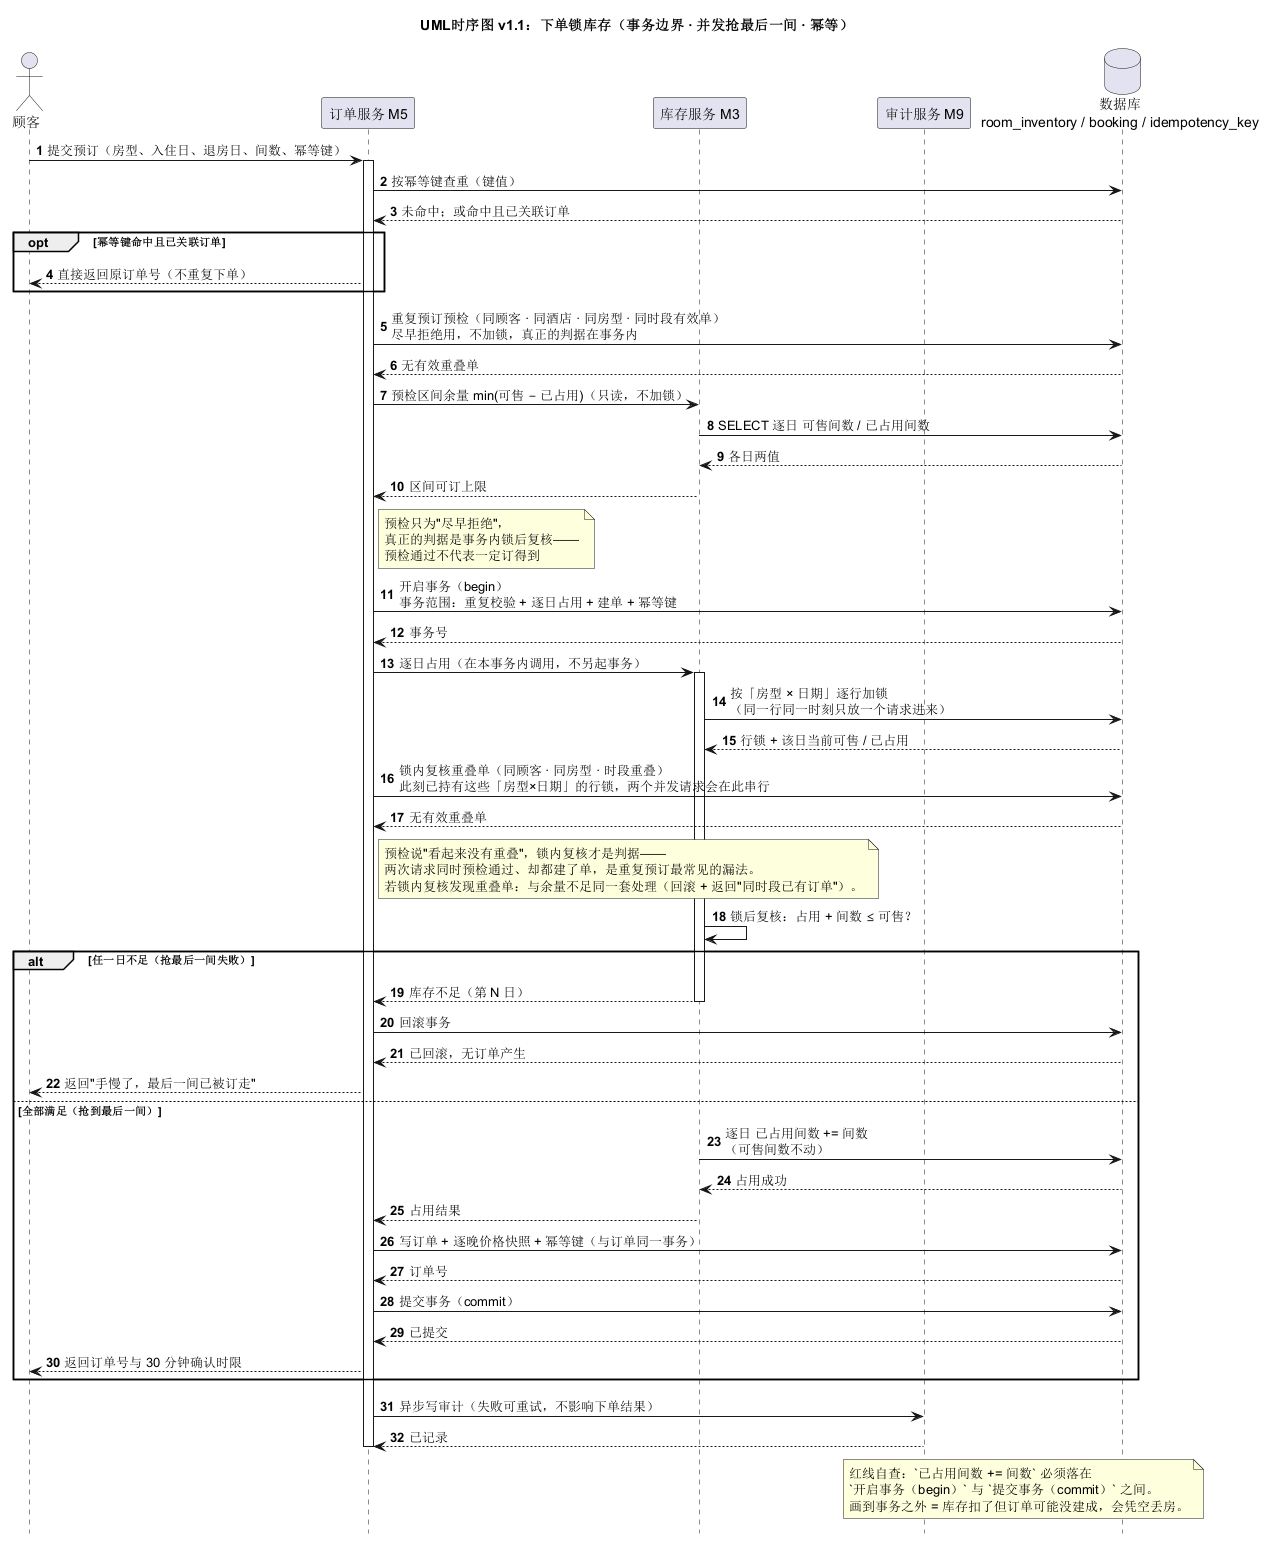
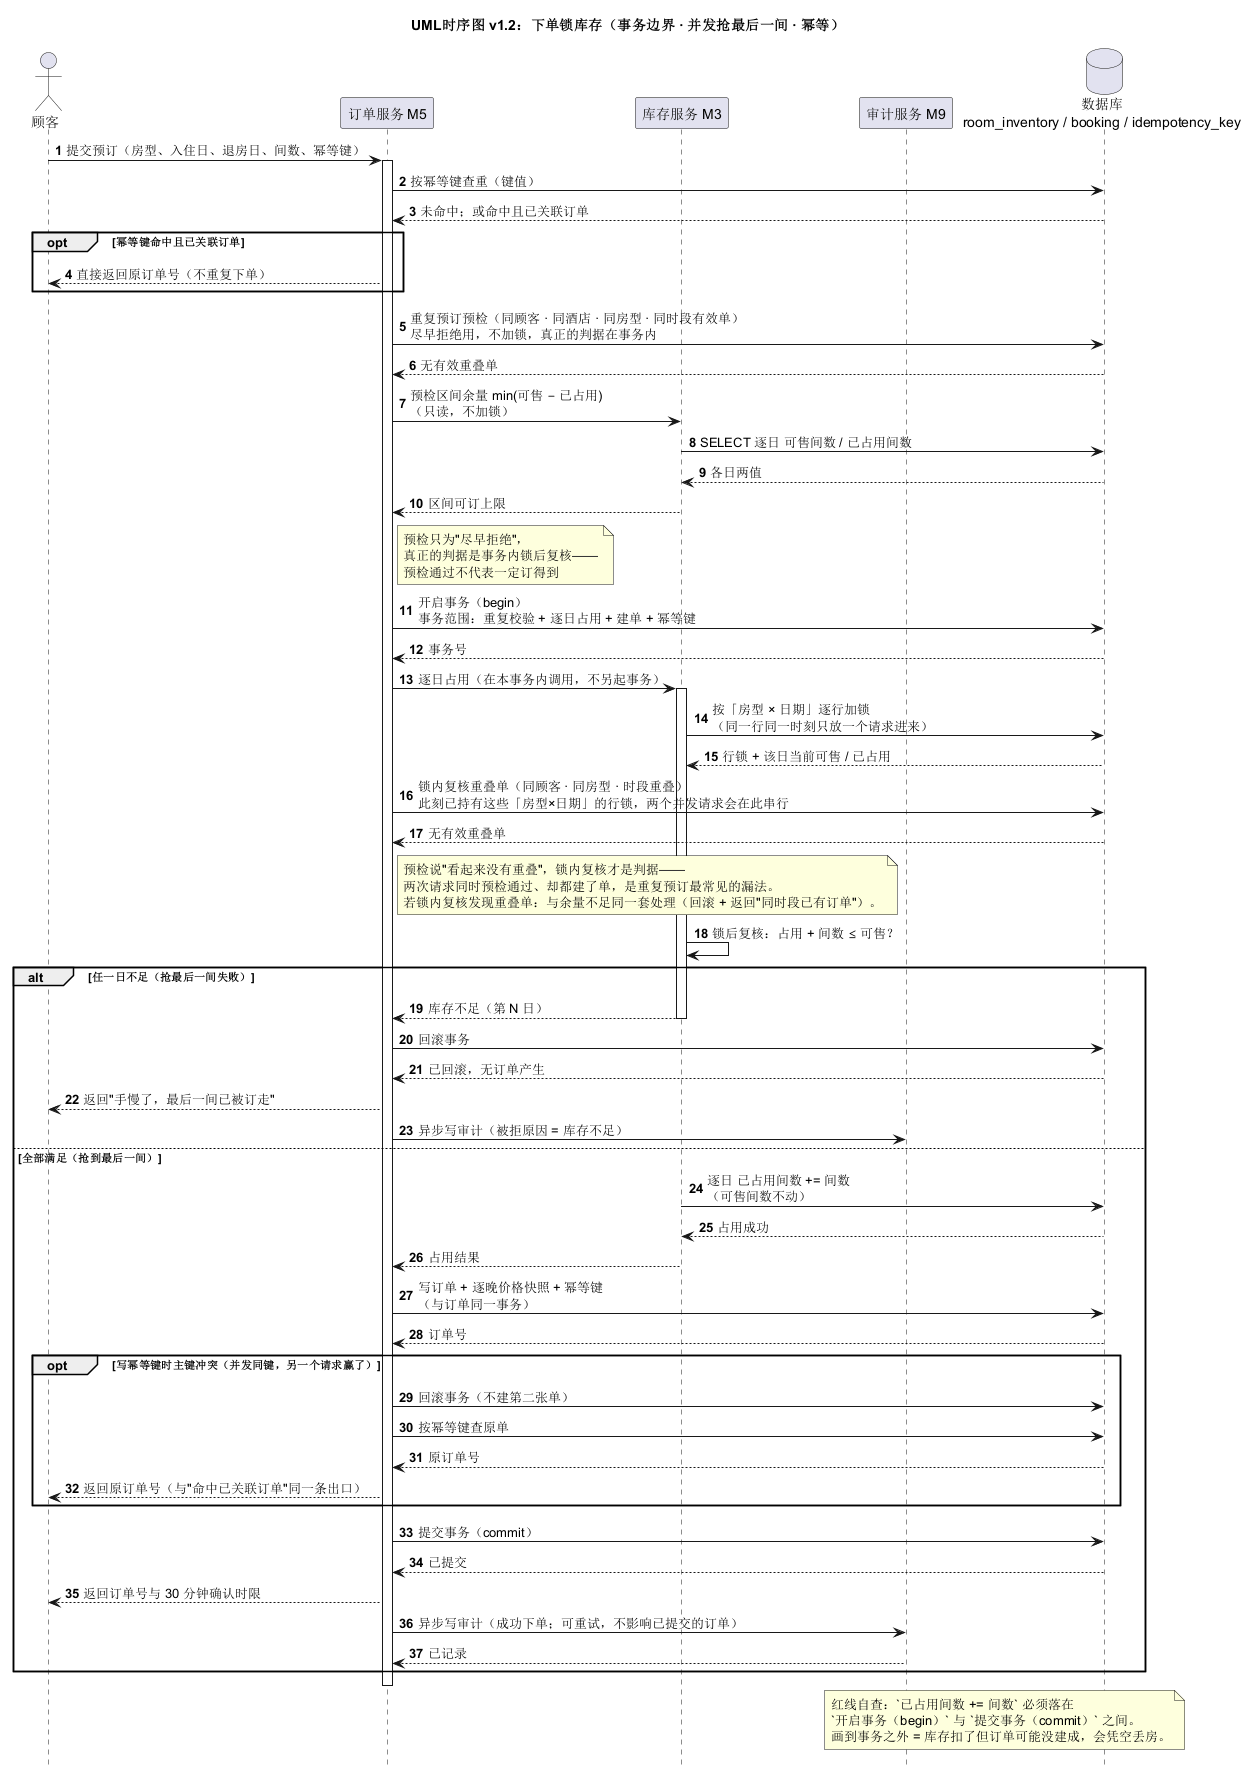
[S4-fix] 按评审 R-10~R-13 收口：超时扫描归 M6、状态变更经状态机、失败路径补审计
S4 复验判"通过（带债）"，四条债在本提交内闭环：

R-10 超时扫描归属与频率三处打架
- UML时序图-超时取消.puml：执行者由 M5 改为 M6（M10 每 5 分钟触发 → M6 扫描 →
  M6 请求 M5 置取消 → M5 调 M3 释放），并补 M6 生命线；
- UML组件图.puml：M10 --> M6 由「每日 00:05 扫描超时单」改为「每 5 分钟触发超时扫描」，
  00:05 只属于 01 §2 T5 的次日兜底，不该复用到超时扫描；
- 02 §2 M6 卡片补频率（每 5 分钟一批，阈值默认 30 分钟可配置）。

R-11 超时时序图绕过状态机改状态（违背类图 note 与 01 的硬约束）
- 新增 BookingStateMachine 生命线：M5 → 状态机 转换(订单, 超时未确认)，
  由状态机生成条件更新语句（UPDATE … WHERE 状态='待确认'，影响行数=1 才继续），
  图上明写"业务代码不手写 SET"；条件更新这一层保险保留不丢。

R-12 下单失败路径无审计 → alt 失败分支补 M5 → M9 异步写审计（被拒原因 = 库存不足）。
R-13 并发同键未画 → 补 opt「写幂等键时主键冲突」：回滚 → 按幂等键查原单 → 返回原单号。
D-15 版式 → 长消息换行，去掉单行 note 误加的 end note，避免文字压线。

顺带：归档 exp2/验收/评审报告_S4.md。

验证：check.py --stage 1/2/3/4 = 50/50、29/29、20/20、19/19 PASS。

diff --git a/exp2/验收/评审报告_S4.md b/exp2/验收/评审报告_S4.md
@@ -1,0 +1,126 @@
+# 评审报告 · S4 交互图（甲方复验）
+
+> 复验对象：HEAD `13b693e`，标签 `stage-4`（`ce3cca1`）/ `stage-4b`（`13b693e`）
+> 依据：手册硬指标 > `exp1/requirements.md` > 口径卡 > `01 §2`（T1–T8）、`02 §2/§4/§5`（链路与事务边界）、`03 §5`（库存口径）
+> 方式：独立复跑 A 层 + 逐行读两份 `.puml` + 目视两张 PNG + **与 S2/S3 已有图交叉比对**（单图自洽不等于体系自洽）+ 一次反向测试
+> 结论先行：**S4 通过（带债通过）。两处中危须在 S5 提交内闭环，其中 R-11 直接违背"状态只能经状态机改"的硬约束。**
+
+---
+
+## 1. 提交链
+
+| 提交 | 说明 |
+|---|---|
+| `c751abd` | `[S3-fix]` S3→S4 门禁：幂等键同事务写入（R-09）等三项 |
+| `ce3cca1` | `[S4]` 交互图两张（17/17），打标 `stage-4` |
+| `eddccc4` | `[S4-fix]` 重复预订校验移进事务、超时取消补订单行锁 |
+| `391d4aa` | `[人工]` S3 状态图：T7 合并的代价改写成统计口径损失 |
+| `13b693e` | `[人工]` S4 超时时序图：补批次回执，把跳过数单独拎出来（`stage-4b`） |
+
+---
+
+## 2. A 层复跑与判据可信度
+
+`check.py --stage 4` → **19/19 PASS，退出码 0**（19 项，比阶段卡原定的 17 项多了两条红线判据）。
+
+**反向测试（证明红线判据不是空跑）**：在 `UML时序图-下单锁库存.puml` 的事务前注入一条 `已占用间数 += 间数`，重跑得：
+
+```
+[FAIL] 下单时序图 红线：`已占用间数 +=` 落在 begin 与 commit 之间 ← 位置 begin=11 扣减=7 commit=28
+合计 19 项：PASS 18 / FAIL 1
+```
+
+失败信息精确给出三个行号，判据真实有效。测后按字节还原，改前/改后 SHA256 一致，`git status` 干净。
+
+---
+
+## 3. 逐图核对
+
+### 3.1 下单锁库存（`v1.1`，5 条生命线：顾客 / M5 / M3 / M9 / DB）
+
+| 检查点 | 实测 |
+|---|---|
+| 生命周期完整 | 提交 → 幂等键查重 → 重复预订预检 → 区间余量预检 → begin → 逐日加锁 → 锁内复核 → 复核 → `+=` → 建单+幂等键 → commit → 异步审计，32 条带序号消息 |
+| **R-09 闭环** | 第 26 条明写"写订单 + 逐晚价格快照 + **幂等键（与订单同一事务）**"；第 11 条事务范围列出"重复校验 + 逐日占用 + 建单 + 幂等键"；`02 §4` 第 125 行与 `§5` 表已同步改为"键只在事务内写入…主键冲突即回滚并返回原单"——**三处口径一致，孤儿键问题解决** |
+| 红线（扣库存必须在事务内） | `+=` 在第 23 条，夹在 begin(11) 与 commit(28) 之间；并有 `note over DB,M9` 自述理由 |
+| 重复预订校验 | 预检（不加锁，尽早拒绝，第 25 条）+ 锁内复核（第 41 条，"此刻已持有行锁，两个并发请求在此串行"），与 `02 §5`"重复校验在事务内"一致；`eddccc4` 的修订是对的方向 |
+| 并发抢最后一间 | `alt 任一日不足 → 回滚 → "手慢了"`；`else 全部满足 → 占用 → 建单 → 提交`，与 S3 活动图同一套顺序 |
+| 幂等分支 | `opt 幂等键命中且已关联订单 → 直接返回原订单号` |
+
+### 3.2 超时取消回补（`v1.2`，5 条生命线：M10 / M5 / M3 / M7 / M9 / DB）
+
+| 检查点 | 实测 |
+|---|---|
+| 逐单独立事务 | `loop 逐单处理（每单一个独立事务）`，内层 begin/commit 包裹状态更新、释放、通知 |
+| 只回补一次 | 订单行锁（`SELECT … FOR UPDATE`）+ 条件更新（`WHERE 状态='待确认'`，影响行数=1 才继续）+ `alt 已被确认或已取消 → 回滚`，三层保险；`eddccc4` 补的正是 `02 §5` 写的"订单行锁" |
+| 红线 | `-=` 与状态变更同一事务；`note over M3,M9` 写明拆开的后果（半截账） |
+| 可观测性（人工提交） | 第 21 条"返回本批结果（扫描 N / 取消 K / 跳过 S / 失败 F）"+ note 说明"跳过数持续不为 0 = 该取消的没取消"，这是设计者视角，不是 AI 套话 |
+
+### 3.3 交叉比对（单图自洽 ≠ 体系自洽）
+
+| 比对对象 | 结果 |
+|---|---|
+| `03 §5` 库存口径 | 两图都写"已占用 ± 间数（可售间数不动）"，与 S1 返工后的口径完全一致 |
+| S3 活动图 | 顺序一致（预检 → 事务 → 加锁 → 锁后复核 → 回补/回滚），R-08 的修正没有被时序图改回去 |
+| `02 §2` M6 对外接口 | **不一致**，见 R-10 |
+| 类图 `note right of BookingStatus`"状态只能经 BookingStateMachine 修改" | **不一致**，见 R-11 |
+
+---
+
+## 4. 新发现问题
+
+**R-10（中危）｜"谁扫描超时单、多久扫一次"三处说法打架**
+
+- `UML时序图-超时取消.puml:17`：`M10 -> M5 : 每 5 分钟触发一次扫描（阈值默认 30 分钟，可配置）`——**执行者是 M5**、频率 **5 分钟**。
+- `UML组件图.puml:86`：`M10 --> M6 : [T] 每日 00:05 扫描超时单`——**执行者是 M6**、频率 **每日一次**。
+- `02 §2` M6 卡片（第 71 行）对外接口含"**扫描超时订单（定时）**"——归属 **M6**。
+- 硬伤在于物理不可能：确认阈值是 30 分钟，一天扫一次根本取消不掉；而 `00:05` 是 `01 §2 T5`"入住日次日 00:05 系统兜底置已入住"的时间点，被误用到超时扫描上。
+- **甲方裁定**：归属按 `02 §2` 与组件图 —— **M10 触发、M6 扫描、M6 调 M5 置取消、M5 调 M3 释放**；频率统一为**每 5 分钟**（满足 30 分钟阈值）。改动集中在时序图前两条生命线（M10→M6，把"查询待确认超时单"挪到 M6），并把组件图 `:86` 的"每日 00:05"改为"每 5 分钟"。**不得**采用"改 02 让 M5 接管扫描"的反向方案——那要动模块职责表与组件图两条，且与"履约与调度归 M6"的设计意图相反。
+
+**R-11（中危）｜超时时序图绕过状态机直接改状态**
+
+- `UML时序图-超时取消.puml:29`：`条件更新：SET 状态 = 已取消 WHERE 订单号=? AND 状态='待确认'`。
+- 冲突对象是硬约束：类图 `note right of BookingStatus` 与 `01` 都写"**状态字段只能经 `BookingStateMachine` 修改，业务代码不得直接赋值**"。同一份交付里，一张图禁止直接赋值、另一张图直接写 `SET`，答辩必被问。
+- **修法（二选一，推荐前者）**：①把该消息改成 `M5 -> 状态机 : 转换(订单, 超时事件)`，由状态机生成条件更新 SQL，图下加一句"`WHERE 状态='待确认'` 由状态机生成，业务代码不手写 SET"；②保留 SQL，但在 note 里同样声明"语句由状态机产出"。**注意保留条件更新**（它是"只回补一次"的第二道保险，不能因为改画法而丢掉）。
+
+**R-12（低危）｜下单失败路径没有审计，与活动图不一致**
+
+S3 活动图在"重复预订被拒""余量不足"两条失败路径上都画了"写审计（被拒原因）"，S4 时序图在 `alt 库存不足 → 回滚 → 返回` 之后直接结束，没有 `M5 -> M9`。建议补一条异步审计（被拒原因=库存不足 / 重复预订），否则"拒单率"在报表里统计不出来。
+
+**R-13（低危）｜并发同键的"主键冲突"分支没画**
+
+`02 §4` 已写"键值主键冲突即回滚并返回原单"，但时序图只有 `opt 命中且已关联订单`（那是先查到的路径）。建议在该 `opt` 旁补 `opt 写幂等键时主键冲突`：回滚 → 查原单 → 返回原单号。属"图上少一条分支"，不改主流程。
+
+**D-15（低危）｜版式**：下单图第 16–17 条消息的文字与箭头顶线轻微叠压；超时图第 8 条条件更新文字压住自消息箭头。重渲染时把消息文本换行即可，不影响正确性。
+
+---
+
+## 5. 已闭环项（本轮确认）
+
+| 项 | 结论 |
+|---|---|
+| R-09（S3 遗留，中） | **已闭环**：活动图补"写幂等键"、`02 §4/§5` 统一为"同事务写入 + 主键冲突回滚返回原单"、时序图第 26 条落地 |
+| D-13（`**` 字面渲染，低） | **已闭环**：8 份 `.puml` 里 `**` 出现次数全部为 0 |
+| D-14（用例图 include 压字，低） | **已闭环**：`UC07 ..> UC21 : <<include>>` 只留标签，长说明移到 note（`:105`） |
+| D-04（人工证据） | **质量明显提升**：`391d4aa` 把"T7 合并的代价"从"与口径卡冲突"改写为"要分开统计就得另建动因表"（设计视角），`13b693e` 补批次回执与失败可重放（可观测性视角）——这两条可直接进报告 AI 章节，比"改错字"级别的提交有说服力 |
+
+---
+
+## 6. 判定与 S5 门禁
+
+**S4：通过（带债通过）。`stage-4b` 封存，S5（UI 界面）解锁。**
+
+S5 提交内必须闭环（预计 25 分钟，可与界面同批）：
+
+1. **R-10**：时序图执行者改 M6 + 频率统一 5 分钟；组件图 `:86` 的"每日 00:05"改掉。**这是报告 3.3 与 3.5 必须能对上的一条，不能留到终检。**
+2. **R-11**：状态变更经 `BookingStateMachine`（保留条件更新）。
+3. R-12、R-13 顺手补；D-15 重渲染时一并处理。
+
+S5 的硬要求（手册口径）：
+
+- **17 张必做界面（18–20 可选不做了）**，M1–M9 每模块至少一张独占界面，M10 无界面；每张配文字说明：目标用户 / 入口路径 / 页面元素 / 主流程 / **异常提示文案**（库存不足、超时未确认、403 越权、no-show 超时置灰）。
+- 报告里要有"界面 → 模块 → REQ"映射表，证明没漏模块（这是手册判定"每个功能模块都有界面"的唯一凭据）。
+- 命名 `界面01.png` … `界面17.png`，直接落在 `exp2/UI界面/`。
+- 界面上必须能看到 S1 口径的三值（可售 / 已占用 / 余量），界面 11 尤其；否则与库存口径脱节。
+
+距 11-14 00:00 约 31 小时：S5 是最大头（17 张），必须模板化批量出，不要逐张精修；S6 报告留 4 小时，S7 AI 章节留 1.5 小时，S8 PDF + 打包留 2 小时。

diff --git a/exp2/设计基线/02_模块划分与交互.md b/exp2/设计基线/02_模块划分与交互.md
@@ -68,7 +68,7 @@
 ### M6 履约与调度
 - **职责**：确认/拒单、核验入住、办理退房、no-show 标记、30 分钟超时定时任务（阈值可配）。
 - **不负责**：取消政策判定、退款（一期不做）。
-- **对外接口**：确认订单 / 拒单 / 核验并办理入住 / 办理退房 / 标记 no-show / 扫描超时订单（定时）。
+- **对外接口**：确认订单 / 拒单 / 核验并办理入住 / 办理退房 / 标记 no-show / 扫描超时订单（定时，每 5 分钟一批；确认阈值默认 30 分钟、可配置）。
 - **覆盖 REQ**：007、011、013。
 
 ### M7 取消与异常处置
